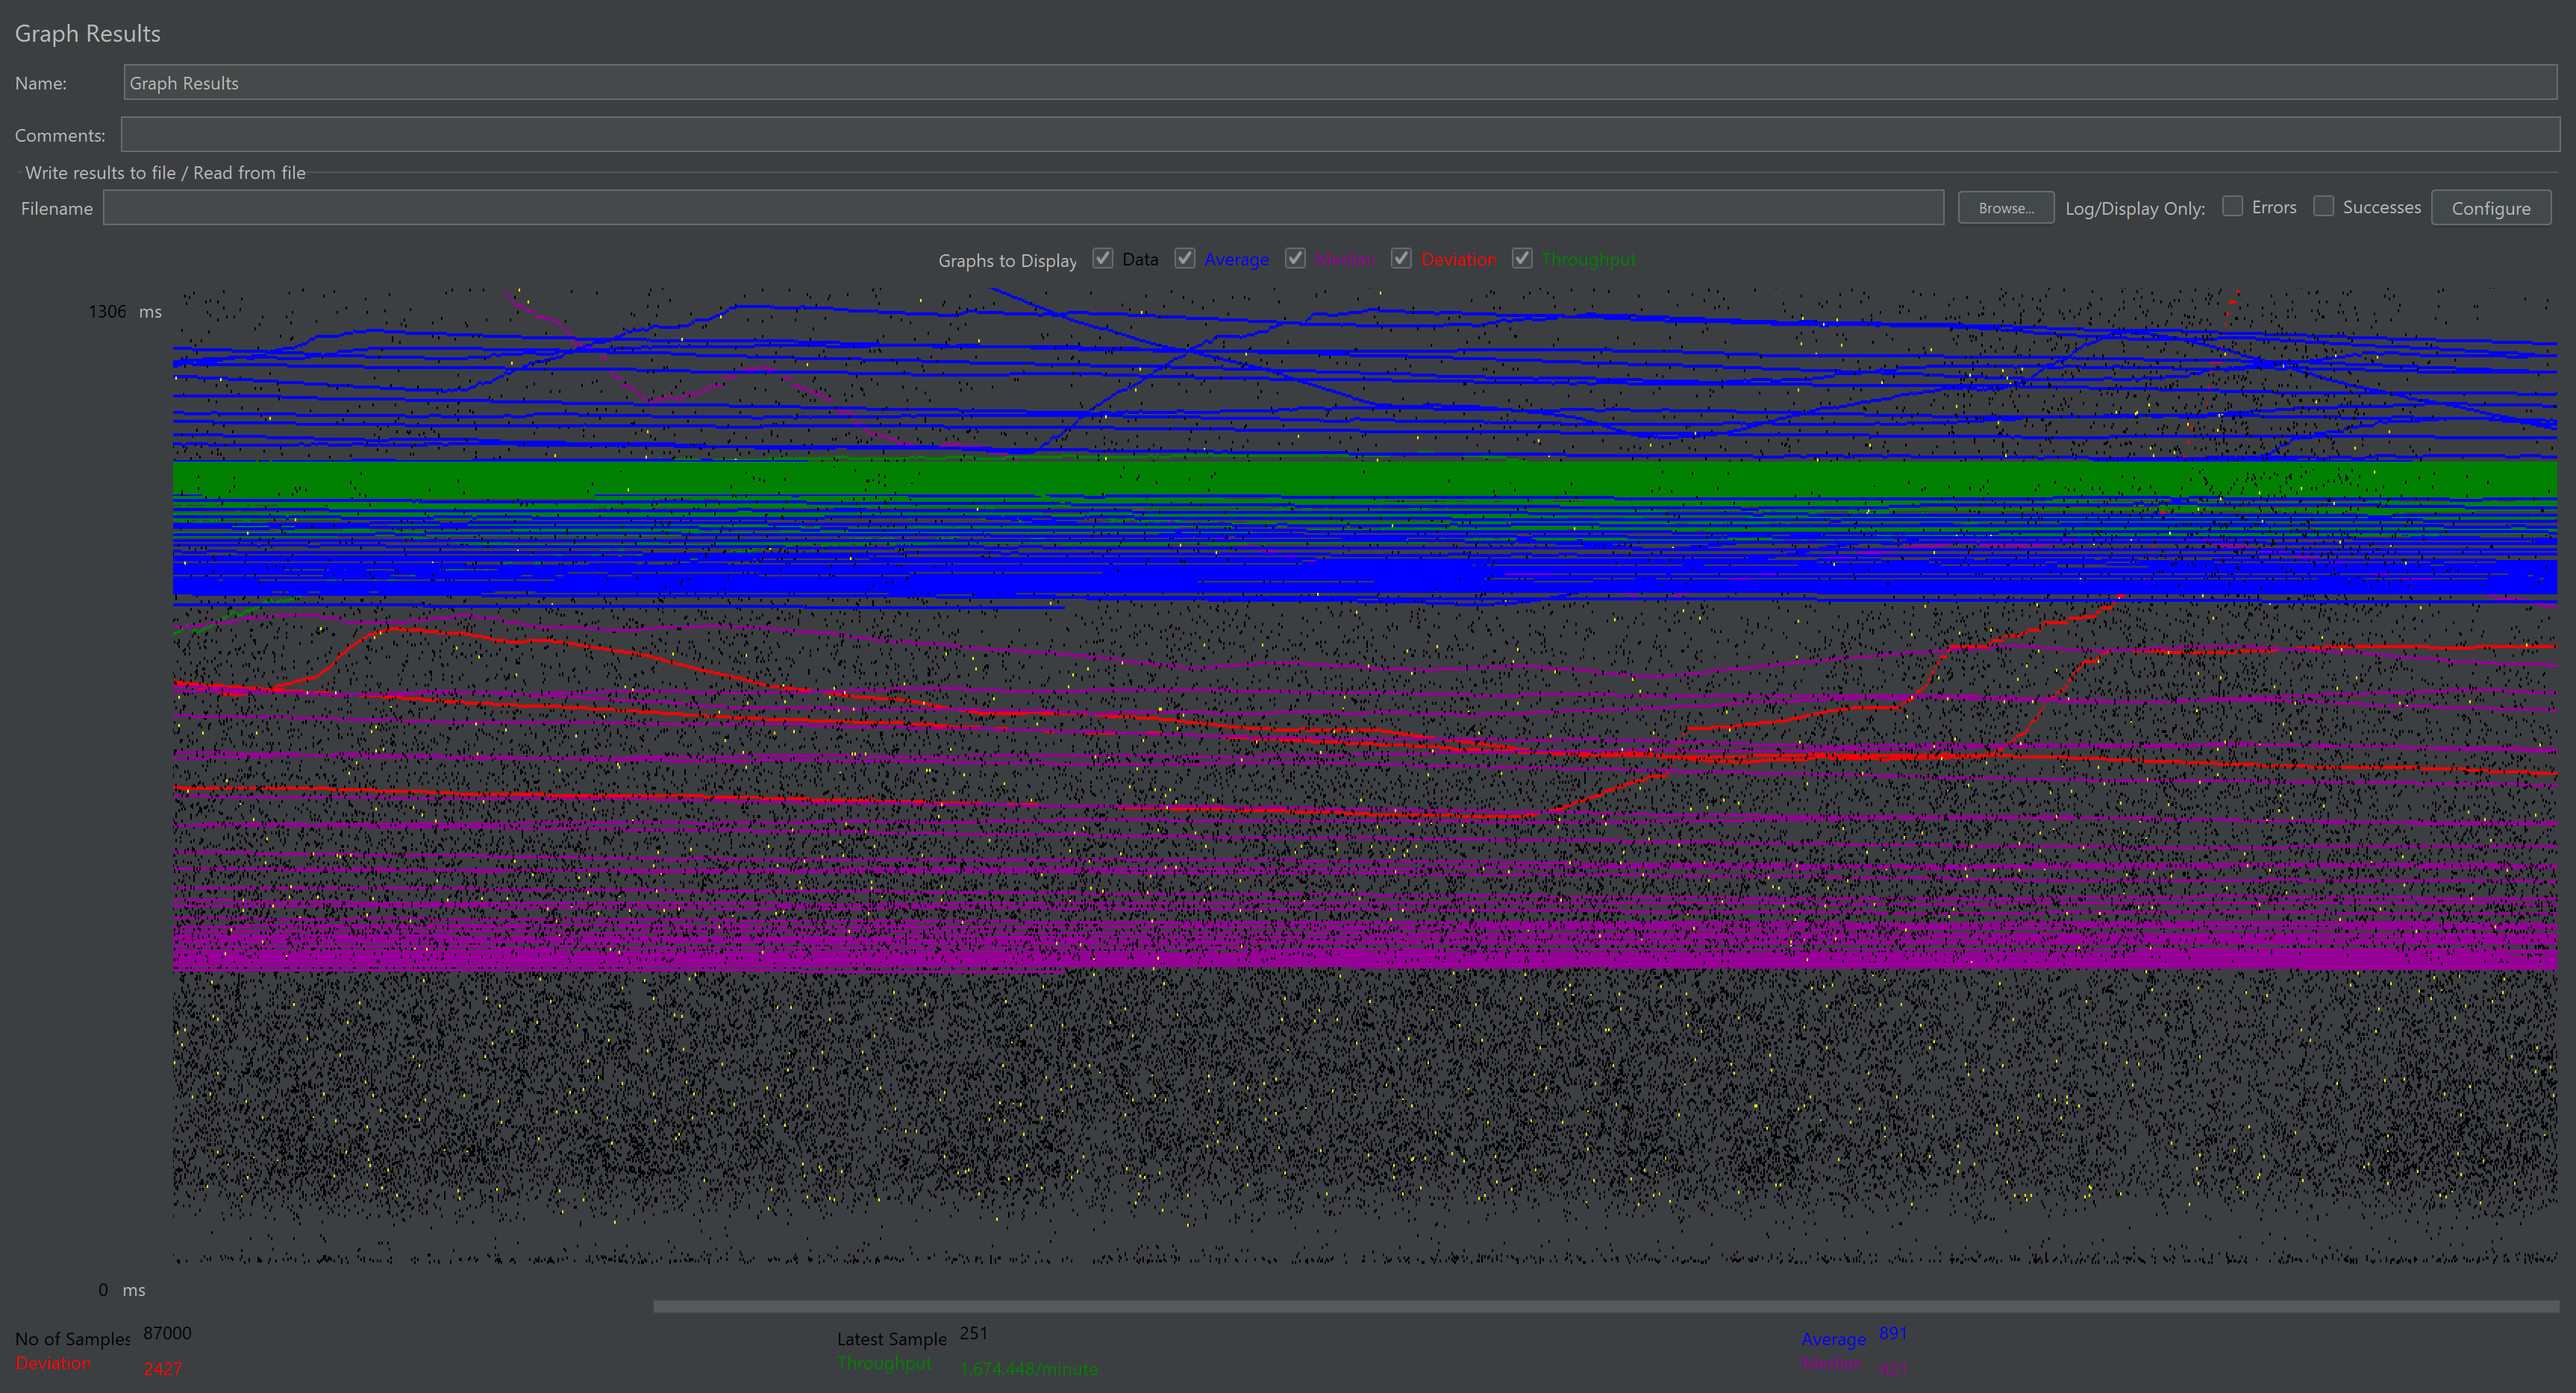
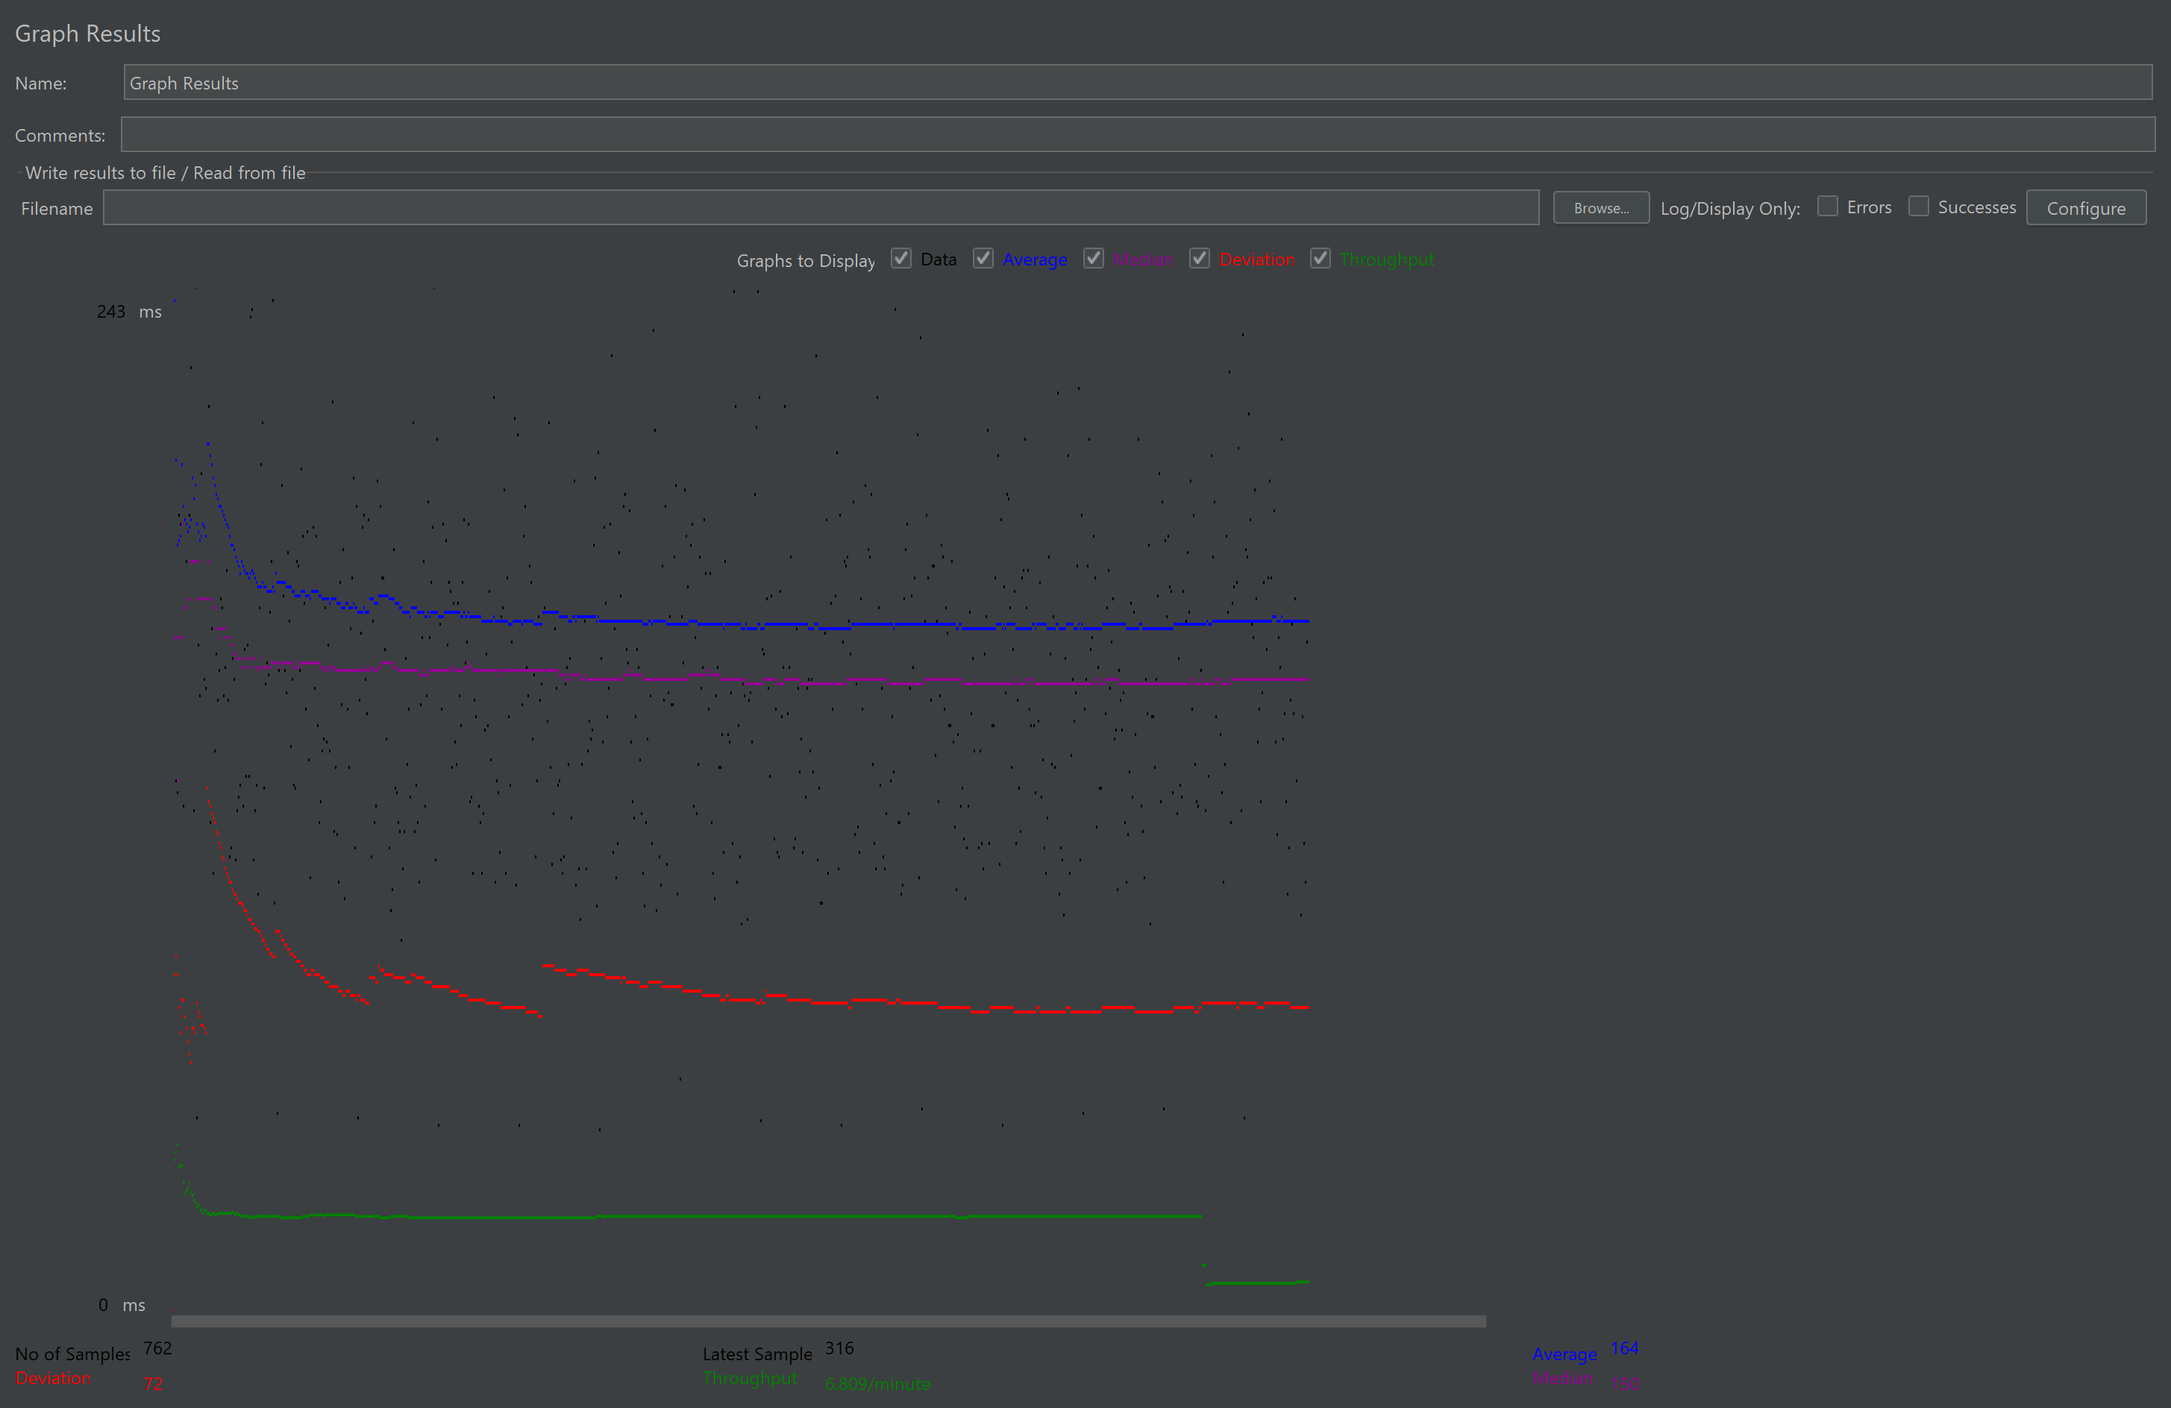
estability test

diff --git a/00-Testing/Pruebas De Rendimiento.md b/00-Testing/Pruebas De Rendimiento.md
@@ -124,6 +124,10 @@ Esta prueba puede mostrar los **tiempos de respuesta** de cada una de las accion
 
 
 
+Para la visualización del estado de la memoria, CPUs, Disco, etc durante la realización de las distintas pruebas de carga, se ha utilizado [influxdb](https://www.influxdata.com/), que permite monitorizar el estado del sistema con gráficas y otro tipo de información gráfica, de forma personalizada.
+
+
+
 #### Pruebas de Carga sobre el API
 
 Sobre los distintos endpoints detallados en el Anexo se configurarán llamadas mediante JMeter. Dichas llamadas simularán el flujo de un usuario realizando consultas a través del frontal:
@@ -504,38 +508,55 @@ En las siguientes imágenes se pueden ver los resultados en gráfica y tabla. Se
 
 
 
-![Resultados de los test de carga en la tabla](./img/jmeter/tabla-test-estabilidad.JPG)
-
 
 
 Los resultados obtenidos se pueden ver en la siguiente tabla:
 
-| Label                                 | # Samples | Average | Min  | Max   | Std. Dev. | Error %  | Throughput | Received KB/sec | Sent KB/sec | Avg. Bytes |
-| ------------------------------------- | --------- | ------- | ---- | ----- | --------- | -------- | ---------- | --------------- | ----------- | ---------- |
-| /api/university/quality               | 1500      | 824     | 85   | 21051 | 2182.20   | 0.400%   | .50804     | 0.79            | 0.31        | 1593.3     |
-| /api/university/financing             | 1500      | 1085    | 110  | 21060 | 2442.06   | 100.000% | .50784     | 0.35            | 0.31        | 698.8      |
-| /api/organization/search              | 3000      | 855     | 109  | 21055 | 2132.44   | 0.600%   | 1.01447    | 2.61            | 0.63        | 2636.6     |
-| /api/organization/-1/T3JnYW5pemF0aW9u | 1500      | 746     | 102  | 21058 | 2066.85   | 0.533%   | .50779     | 0.20            | 0.36        | 411.4      |
-| /api/person/area                      | 3000      | 719     | 118  | 21054 | 2057.25   | 0.500%   | 1.00509    | 1.92            | 0.64        | 1955.8     |
-| /api/academicpublication/search       | 9000      | 796     | 132  | 21062 | 2176.29   | 0.522%   | 2.96096    | 9.41            | 2.09        | 3253.2     |
-| /api/project/search                   | 9000      | 806     | 134  | 21068 | 2114.83   | 0.578%   | 2.92102    | 11.27           | 1.89        | 3949.9     |
-| /api/document/search                  | 9000      | 822     | 150  | 21058 | 2207.38   | 0.678%   | 2.97148    | 8.21            | 2.01        | 2830.5     |
-| /api/patent/area                      | 4500      | 730     | 96   | 21051 | 2206.93   | 0.600%   | 1.47089    | 4.06            | 0.92        | 2823.5     |
-| /api/patent/search                    | 9000      | 797     | 117  | 21059 | 2228.35   | 0.667%   | 2.93179    | 6.26            | 1.91        | 2185.0     |
-| /api/researchstaff/search             | 4500      | 1030    | 259  | 21066 | 2145.20   | 0.511%   | 1.46791    | 4.28            | 0.96        | 2983.6     |
-| /main/categories/scientist/1          | 1500      | 332     | 43   | 21053 | 1943.41   | 0.467%   | .50893     | 0.62            | 0.33        | 1242.8     |
-| /api/otherpublication/search          | 6000      | 776     | 132  | 21060 | 2139.83   | 0.633%   | 2.00276    | 4.81            | 1.28        | 2458.9     |
-| /api/event/search                     | 6000      | 875     | 156  | 21054 | 2351.90   | 0.700%   | 2.00240    | 5.35            | 1.23        | 2734.2     |
-| /api/booksection/search/              | 4500      | 842     | 110  | 21066 | 2520.60   | 0.733%   | 1.52065    | 1.16            | 1.06        | 781.7      |
-| /api/document/M-21543-97/Qm9vaw==     | 1500      | 845     | 130  | 21061 | 2603.41   | 1.200%   | .50843     | 0.36            | 0.35        | 734.4      |
-| /api/event/48/Q29uZmVyZW5jZQ==        | 1500      | 694     | 110  | 21046 | 2015.86   | 0.467%   | .51044     | 0.38            | 0.35        | 768.0      |
-| /api/project/byModality               | 3000      | 643     | 101  | 21056 | 1848.94   | 0.433%   | 1.01261    | 1.68            | 0.62        | 1695.3     |
-| /api/patent/1                         | 1500      | 792     | 100  | 21051 | 2367.31   | 0.667%   | .51075     | 0.34            | 0.30        | 685.9      |
-| /api/project/1                        | 1500      | 705     | 116  | 21053 | 1767.91   | 0.400%   | .51035     | 0.36            | 0.32        | 719.8      |
-| /api/person/search                    | 1500      | 1100    | 354  | 21046 | 1804.27   | 0.267%   | .51046     | 1.54            | 0.32        | 3093.5     |
-| token                                 | 1500      | 4771    | 281  | 21063 | 6664.66   | 8.467%   | .51064     | 1.91            | 0.17        | 3835.8     |
-| sparql                                | 1500      | 1623    | 92   | 21057 | 3525.87   | 9.733%   | .51193     | 0.38            | 1.20        | 767.6      |
-| TOTAL                                 | 87000     | 891     | 43   | 21068 | 2427.23   | 2.607%   | 27.90746   | 66.24           | 18.87       | 2430.6     |
+| Label                                 | # Samples | Average | Min  | Max  | Std. Dev. | Error % | Throughput | Received KB/sec | Sent KB/sec | Avg. Bytes |
+| ------------------------------------- | --------- | ------- | ---- | ---- | --------- | ------- | ---------- | --------------- | ----------- | ---------- |
+| /api/university/organizationByType    | 15        | 131     | 94   | 320  | 63.14     | 0.000%  | .00224     | 0.00            | 0.00        | 965.0      |
+| /api/organization/search              | 15        | 153     | 110  | 383  | 70.54     | 0.000%  | .00224     | 0.01            | 0.00        | 2635.0     |
+| /api/organization/-1/T3JnYW5pemF0aW9u | 15        | 111     | 97   | 126  | 8.54      | 0.000%  | .00224     | 0.00            | 0.00        | 933.0      |
+| /api/person/area                      | 29        | 109     | 92   | 242  | 26.61     | 0.000%  | .00433     | 0.00            | 0.00        | 398.0      |
+| /api/academicpublication/search       | 85        | 166     | 123  | 451  | 51.74     | 0.000%  | .01268     | 0.04            | 0.01        | 3308.0     |
+| /api/project/search                   | 85        | 169     | 124  | 454  | 51.53     | 0.000%  | .01268     | 0.04            | 0.01        | 3202.0     |
+| /api/document/search                  | 84        | 203     | 156  | 562  | 66.56     | 0.000%  | .01266     | 0.03            | 0.01        | 2688.0     |
+| /api/patent/area                      | 42        | 128     | 88   | 394  | 69.67     | 0.000%  | .00630     | 0.02            | 0.00        | 3393.0     |
+| /api/patent/search                    | 84        | 155     | 107  | 412  | 61.11     | 0.000%  | .01259     | 0.02            | 0.01        | 1661.3     |
+| /api/researchstaff/search             | 42        | 230     | 188  | 442  | 51.75     | 0.000%  | .00630     | 0.01            | 0.00        | 1827.0     |
+| /main/categories/scientist/1          | 14        | 46      | 43   | 55   | 2.88      | 0.000%  | .00213     | 0.00            | 0.00        | 1235.0     |
+| /api/otherpublication/search          | 56        | 170     | 139  | 327  | 42.03     | 0.000%  | .00848     | 0.02            | 0.01        | 2456.0     |
+| /api/event/search                     | 56        | 225     | 154  | 834  | 132.50    | 0.000%  | .00847     | 0.02            | 0.01        | 2733.0     |
+| /api/booksection/search/              | 42        | 120     | 103  | 147  | 10.65     | 0.000%  | .00640     | 0.00            | 0.00        | 766.0      |
+| /api/document/M-21543-97/Qm9vaw==     | 14        | 154     | 143  | 168  | 8.12      | 0.000%  | .00214     | 0.00            | 0.00        | 708.0      |
+| /api/event/48/Q29uZmVyZW5jZQ==        | 14        | 140     | 110  | 268  | 36.59     | 0.000%  | .00213     | 0.00            | 0.00        | 758.0      |
+| /api/project/byModality               | 28        | 122     | 95   | 294  | 36.33     | 0.000%  | .00425     | 0.01            | 0.00        | 2403.0     |
+| /api/patent/1                         | 14        | 116     | 107  | 137  | 7.39      | 0.000%  | .00213     | 0.00            | 0.00        | 671.0      |
+| /api/project/1                        | 14        | 126     | 111  | 141  | 8.56      | 0.000%  | .00213     | 0.00            | 0.00        | 398.0      |
+| /api/person/search                    | 14        | 267     | 233  | 419  | 44.94     | 0.000%  | .00213     | 0.00            | 0.00        | 1821.0     |
+| TOTAL                                 | 762       | 164     | 43   | 834  | 72.89     | 0.000%  | .11348     | 0.25            | 0.07        | 2212.3     |
+
+
+
+Teniendo en cuenta que los test se han lanzado entre las 00:00 del 10/05/2021 y las 02:00 del 10/05/2021, el resultado de la monitorización del sistema durante los test de carga se puede ver en las siguientes imágenes:
+
+![Resultado general de la monitorización de test de estabilidad](./img/jmeter/general-state-test-estabilidad.png)
+
+
+
+![Resultado de la monitorización de la ocupación de memoria de test de estabilidad](./img/jmeter/memory-state-test-estabilidad.png)
+
+
+
+![Resultado de la monitorización de el uso de CPU de test de estabilidad](./img/jmeter/cpu-state-test-estabilidad.png)
+
+
+
+![Resultado de la monitorización de el estado del disco de test de estabilidad](./img/jmeter/disk-state-test-estabilidad.png)
+
+
+
+![Resultado de la monitorización de los procesos de test de estabilidad](./img/jmeter/processes-state-test-estabilidad.png)
 
 
 
